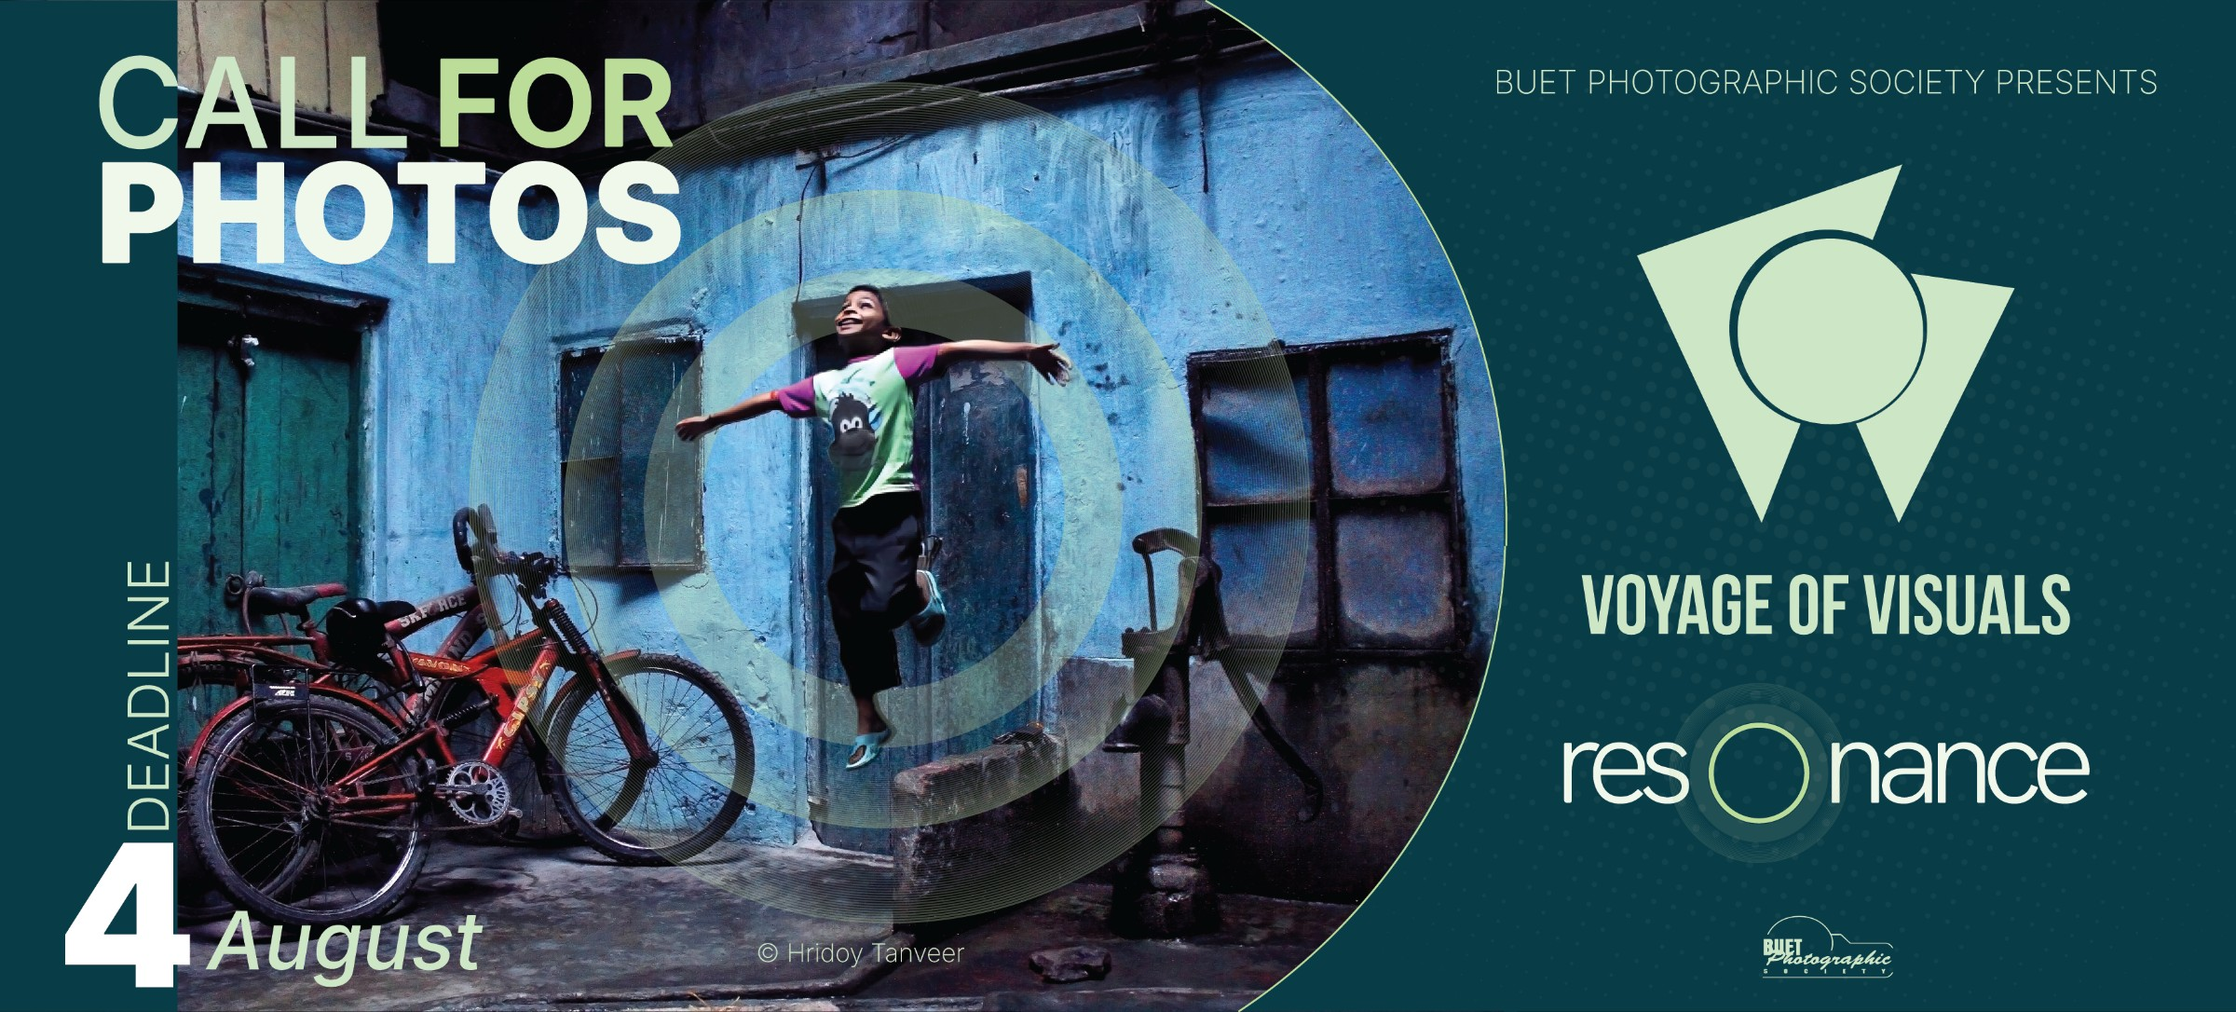
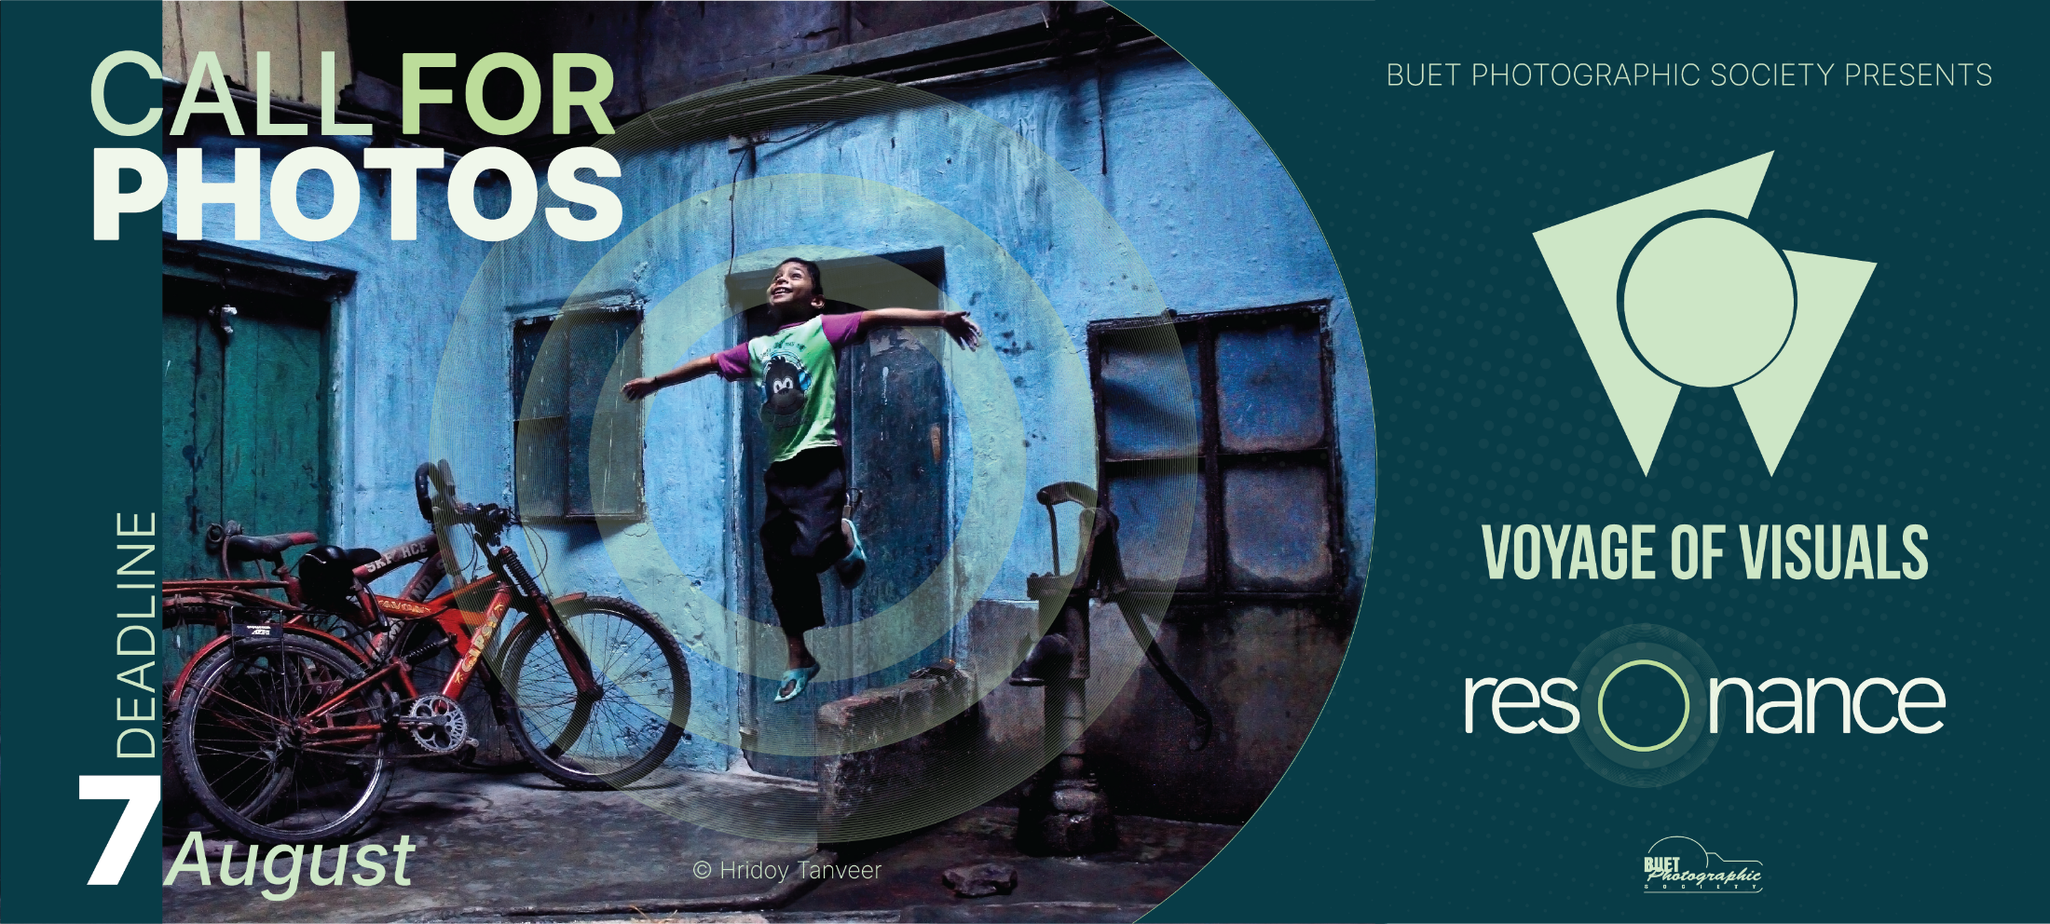
Add files via upload

diff --git a/Home.dc.html b/Home.dc.html
@@ -22,6 +22,7 @@ a{color:#BCDC9A;text-decoration:none}
 a:hover{color:#CDE6C6}
 summary::-webkit-details-marker{display:none}
 summary{list-style:none}
+image-slot::part(image){touch-action:pan-y}
 @keyframes vvHeroUp{from{opacity:0;transform:translateY(34px)}to{opacity:1;transform:none}}
 @keyframes vvRing{0%{transform:scale(.94);opacity:.45}50%{transform:scale(1.05);opacity:.9}100%{transform:scale(.94);opacity:.45}}
 @keyframes vvFloat{0%{transform:translateY(0) rotate(-2.5deg) scale(1)}25%{transform:translateY(-20px) rotate(0deg) scale(1.025)}50%{transform:translateY(-30px) rotate(2.5deg) scale(1.04)}75%{transform:translateY(-14px) rotate(.5deg) scale(1.02)}100%{transform:translateY(0) rotate(-2.5deg) scale(1)}}
@@ -60,7 +61,7 @@ summary{list-style:none}
           <span style="writing-mode:vertical-rl;transform:rotate(180deg);font-size:16px;font-weight:800;letter-spacing:.3em;text-transform:uppercase;color:#003B47">Deadline</span>
         </div>
         <div style="display:flex;align-items:baseline;gap:12px">
-          <span style="font-size:clamp(56px,8vw,96px);font-weight:900;line-height:1;color:#EFF6EA">4</span>
+          <span style="font-size:clamp(56px,8vw,96px);font-weight:900;line-height:1;color:#EFF6EA">7</span>
           <span style="font-size:clamp(28px,4.5vw,48px);font-weight:300;font-style:italic;color:#BCDC9A">August</span>
         </div>
       </div>
@@ -76,10 +77,10 @@ summary{list-style:none}
       </div>
       <div style="font-size:clamp(17px,4.4vw,36px);font-weight:800;letter-spacing:clamp(.08em,.5vw,.18em);text-transform:uppercase;color:#CDE6C6;text-align:center;white-space:nowrap">Voyage of Visuals</div>
       <div style="position:relative;width:min(70vw,420px)">
-        <div style="position:absolute;left:36.7%;top:50%;width:50%;aspect-ratio:1;pointer-events:none;border-radius:50%;background:radial-gradient(circle closest-side, transparent 45%, rgba(239,246,234,.11) 46% 70%, rgba(239,246,234,.055) 71% 89%, rgba(239,246,234,.1) 90% 92%, transparent 93%);animation:vvHaloPulse 5s ease-in-out infinite"></div>
-        <div style="position:absolute;left:36.7%;top:50%;width:50%;aspect-ratio:1;pointer-events:none;border-radius:50%;background:repeating-radial-gradient(circle closest-side, rgba(239,246,234,.09) 0 1px, transparent 1px 6px);-webkit-mask-image:radial-gradient(circle closest-side, transparent 46%, rgba(0,0,0,.9) 48% 88%, transparent 91%);mask-image:radial-gradient(circle closest-side, transparent 46%, rgba(0,0,0,.9) 48% 88%, transparent 91%);animation:vvHaloPulse 5s ease-in-out infinite"></div>
-        <div style="position:absolute;left:36.7%;top:50%;width:50%;aspect-ratio:1;pointer-events:none;border-radius:50%;background:radial-gradient(circle closest-side, transparent 60%, rgba(188,220,154,.28) 62% 88%, transparent 92%);transform:translate(-50%,-50%);animation:vvRipple 5s cubic-bezier(.25,.6,.45,1) infinite"></div>
-        <div style="position:absolute;left:36.7%;top:50%;width:50%;aspect-ratio:1;pointer-events:none;border-radius:50%;background:radial-gradient(circle closest-side, transparent 60%, rgba(188,220,154,.28) 62% 88%, transparent 92%);transform:translate(-50%,-50%);animation:vvRipple 5s cubic-bezier(.25,.6,.45,1) 2.5s infinite"></div>
+        <div style="position:absolute;left:37.3%;top:50%;width:50%;aspect-ratio:1;pointer-events:none;border-radius:50%;background:radial-gradient(circle closest-side, transparent 45%, rgba(239,246,234,.11) 46% 70%, rgba(239,246,234,.055) 71% 89%, rgba(239,246,234,.1) 90% 92%, transparent 93%);animation:vvHaloPulse 5s ease-in-out infinite"></div>
+        <div style="position:absolute;left:37.3%;top:50%;width:50%;aspect-ratio:1;pointer-events:none;border-radius:50%;background:repeating-radial-gradient(circle closest-side, rgba(239,246,234,.09) 0 1px, transparent 1px 6px);-webkit-mask-image:radial-gradient(circle closest-side, transparent 46%, rgba(0,0,0,.9) 48% 88%, transparent 91%);mask-image:radial-gradient(circle closest-side, transparent 46%, rgba(0,0,0,.9) 48% 88%, transparent 91%);animation:vvHaloPulse 5s ease-in-out infinite"></div>
+        <div style="position:absolute;left:37.3%;top:50%;width:50%;aspect-ratio:1;pointer-events:none;border-radius:50%;background:radial-gradient(circle closest-side, transparent 60%, rgba(188,220,154,.28) 62% 88%, transparent 92%);transform:translate(-50%,-50%);animation:vvRipple 5s cubic-bezier(.25,.6,.45,1) infinite"></div>
+        <div style="position:absolute;left:37.3%;top:50%;width:50%;aspect-ratio:1;pointer-events:none;border-radius:50%;background:radial-gradient(circle closest-side, transparent 60%, rgba(188,220,154,.28) 62% 88%, transparent 92%);transform:translate(-50%,-50%);animation:vvRipple 5s cubic-bezier(.25,.6,.45,1) 2.5s infinite"></div>
         <img src="assets/resonance.png" alt="resonance" style="display:block;width:100%;height:auto;position:relative">
       </div>
     </div>
@@ -99,13 +100,51 @@ summary{list-style:none}
         <span style="height:1px;width:60px;background:linear-gradient(270deg,transparent,rgba(188,220,154,.6))"></span>
       </div>
     </div>
-    <div data-reveal="1" style="max-width:800px;margin:40px auto 0;font-size:clamp(16px,2.2vw,18px);line-height:1.9;color:rgba(239,246,234,.87)">
-      <p style="margin:0 0 22px">Every year, Voyage of Visuals brings together photographers from inside and outside BUET to share the images they care about most. This year the exhibition carries a single word with it: resonance. Some photographs do more than show us a moment. They hum quietly in the back of the mind, returning days or years later, asking to be looked at again.</p>
-      <p style="margin:0 0 22px">Resonance is what remains after the shutter closes. It is the echo between a picture and the person looking at it, the feeling that a stranger's frame somehow knows something about your own life. We are looking for photographs that carry that echo. Quiet or loud, staged or stolen from the street, what matters is that the image keeps sounding after the eye has moved on.</p>
-      <p style="margin:0">This is your invitation. Open your archives, walk your city, look again at the people and places you thought you knew. Then send us the frames that refuse to go silent.</p>
+    <div data-reveal="1" style="max-width:840px;margin:44px auto 0">
+      <p style="margin:0;text-align:center;font-size:clamp(20px,3vw,29px);line-height:1.55;font-weight:600;letter-spacing:-.005em;color:#CDE6C6;text-wrap:balance">Resonance is the invisible thread, the subtle yet profound force that binds existence together.</p>
+    </div>
+    <div style="max-width:860px;margin:clamp(46px,6vw,74px) auto 0;display:flex;flex-direction:column">
+      <div data-reveal="0" style="padding:clamp(28px,3.6vw,40px) 0;border-top:1px solid rgba(188,220,154,.16)">
+        <div style="display:flex;align-items:center;gap:16px;margin:0 0 16px">
+          <h3 style="margin:0;font-size:clamp(24px,3.6vw,34px);font-weight:900;letter-spacing:-.01em;color:#EFF6EA;white-space:nowrap">The <span style="color:#BCDC9A">Nature</span></h3>
+          <span style="height:1px;flex:1;background:linear-gradient(90deg,rgba(188,220,154,.4),transparent)"></span>
+        </div>
+        <p style="margin:0;font-size:clamp(16px,2vw,18px);line-height:1.85;color:rgba(239,246,234,.85);text-wrap:pretty">Resonance can be felt in the stillness before rain, as nature holds its breath. It is there in the first drop that sends a shiver through your skin; in the rhythm of tides, the turning of seasons, and the quiet dialogue between all living things.</p>
+      </div>
+      <div data-reveal="0" style="padding:clamp(28px,3.6vw,40px) 0;border-top:1px solid rgba(188,220,154,.16)">
+        <div style="display:flex;align-items:center;gap:16px;margin:0 0 16px">
+          <h3 style="margin:0;font-size:clamp(24px,3.6vw,34px);font-weight:900;letter-spacing:-.01em;color:#EFF6EA;white-space:nowrap">The <span style="color:#BCDC9A">Human</span></h3>
+          <span style="height:1px;flex:1;background:linear-gradient(90deg,rgba(188,220,154,.4),transparent)"></span>
+        </div>
+        <p style="margin:0;font-size:clamp(16px,2vw,18px);line-height:1.85;color:rgba(239,246,234,.85);text-wrap:pretty">Resonance is felt when a stranger's laughter finds its way to your smile, or when another person's tragedy makes your heart heavy and your eyes tear up. It lives in love and longing, grief and remembrance, and the unspoken understanding between strangers. Resonance is found where one life leaves its impact on another.</p>
+      </div>
+      <div data-reveal="0" style="padding:clamp(28px,3.6vw,40px) 0;border-top:1px solid rgba(188,220,154,.16)">
+        <div style="display:flex;align-items:center;gap:16px;margin:0 0 16px">
+          <h3 style="margin:0;font-size:clamp(24px,3.6vw,34px);font-weight:900;letter-spacing:-.01em;color:#EFF6EA;white-space:nowrap">The <span style="color:#BCDC9A">Collective</span></h3>
+          <span style="height:1px;flex:1;background:linear-gradient(90deg,rgba(188,220,154,.4),transparent)"></span>
+        </div>
+        <p style="margin:0;font-size:clamp(16px,2vw,18px);line-height:1.85;color:rgba(239,246,234,.85);text-wrap:pretty">Resonance is the force that turns a whisper into a chant, a lone voice into a chorus, a small act of resistance into a revolution, and a shared belief into a movement. It transforms a simple act of kindness into a wave that travels far beyond its origin. It echoes through communities, traditions, celebrations, protests, and moments of shared hope, reminding us that the greatest changes often begin with the smallest gestures.</p>
+      </div>
+      <div data-reveal="0" style="padding:clamp(28px,3.6vw,40px) 0;border-top:1px solid rgba(188,220,154,.16)">
+        <div style="display:flex;align-items:center;gap:16px;margin:0 0 16px">
+          <h3 style="margin:0;font-size:clamp(24px,3.6vw,34px);font-weight:900;letter-spacing:-.01em;color:#EFF6EA;white-space:nowrap">The <span style="color:#BCDC9A">Journey</span></h3>
+          <span style="height:1px;flex:1;background:linear-gradient(90deg,rgba(188,220,154,.4),transparent)"></span>
+        </div>
+        <p style="margin:0;font-size:clamp(16px,2vw,18px);line-height:1.85;color:rgba(239,246,234,.85);text-wrap:pretty">Resonance lives in forgotten streets, inherited traditions, weathered photographs, and familiar faces. It reminds us that every journey, across landscapes, cultures, or through time itself, changes not only where we arrive, but also who we become.</p>
+      </div>
+      <div data-reveal="0" style="padding:clamp(28px,3.6vw,40px) 0;border-top:1px solid rgba(188,220,154,.16);border-bottom:1px solid rgba(188,220,154,.16)">
+        <div style="display:flex;align-items:center;gap:16px;margin:0 0 16px">
+          <h3 style="margin:0;font-size:clamp(24px,3.6vw,34px);font-weight:900;letter-spacing:-.01em;color:#EFF6EA;white-space:nowrap">The <span style="color:#BCDC9A">Vision</span></h3>
+          <span style="height:1px;flex:1;background:linear-gradient(90deg,rgba(188,220,154,.4),transparent)"></span>
+        </div>
+        <p style="margin:0;font-size:clamp(16px,2vw,18px);line-height:1.85;color:rgba(239,246,234,.85);text-wrap:pretty">Resonance is not only found in what we photograph, but in how we choose to see. It emerges through light and shadow, composition and timing, perspective and intention. Every frame is an interpretation. Every photograph is a quiet invitation to see the world as we do, and to resonate with it.</p>
+      </div>
+    </div>
+    <div data-reveal="1" style="max-width:820px;margin:clamp(40px,5vw,60px) auto 0;padding:clamp(28px,3.6vw,42px);border-radius:22px;background:rgba(188,220,154,.07);border:1px solid rgba(188,220,154,.22)">
+      <p style="margin:0;text-align:center;font-size:clamp(16px,2.1vw,18.5px);line-height:1.85;color:rgba(239,246,234,.9);text-wrap:pretty">We believe resonance goes far beyond sound. For this exhibition, we invite you to explore what this concept means to you, whether through a single defining image or a complete photo story. Let these themes be your starting point, not your boundary. We are looking for photographs that don't just document resonance, but actively create it.</p>
     </div>
     <div data-reveal="2" style="margin:60px auto 0;border-radius:22px;overflow:hidden;box-shadow:0 28px 70px rgba(0,0,0,.45);border:1px solid rgba(188,220,154,.16)">
-      <img src="assets/poster.jpg" alt="Call for Photos: Voyage of Visuals, Resonance. Deadline 4 August" loading="lazy" decoding="async" style="display:block;width:100%;height:auto;aspect-ratio:2400/1086">
+      <img src="assets/poster.jpg" alt="Call for Photos: Voyage of Visuals, Resonance. Deadline 7 August" loading="lazy" decoding="async" style="display:block;width:100%;height:auto;aspect-ratio:3536/1595">
     </div>
 
     <div id="submit" data-reveal="0" style="margin:clamp(80px,10vw,120px) 0 46px;text-align:center;scroll-margin-top:110px">
@@ -113,7 +152,7 @@ summary{list-style:none}
       <h3 style="margin:0;font-size:clamp(42px,7vw,76px);font-weight:900;letter-spacing:-.015em;line-height:1.02;color:#EFF6EA">How to <span style="color:#BCDC9A">submit</span></h3>
       <div style="display:inline-flex;align-items:center;gap:11px;margin-top:24px;padding:13px 28px;border-radius:999px;background:rgba(188,220,154,.1);border:1px solid rgba(188,220,154,.3)">
         <span style="width:9px;height:9px;border-radius:50%;background:#CDE6C6;box-shadow:0 0 12px #CDE6C6"></span>
-        <span style="font-size:16.5px;font-weight:600;color:#EFF6EA">Deadline <strong style="color:#BCDC9A">4 August, 11:59 pm</strong></span>
+        <span style="font-size:16.5px;font-weight:600;color:#EFF6EA">Deadline <strong style="color:#BCDC9A">7 August, 11:59 pm</strong></span>
       </div>
     </div>
     <div style="display:grid;grid-template-columns:repeat(auto-fit,minmax(min(100%,380px),1fr));gap:28px">
@@ -162,7 +201,7 @@ summary{list-style:none}
       </div>
       <div data-reveal="1" style="background:rgba(239,246,234,.035);border:1px solid rgba(188,220,154,.14);border-radius:18px;padding:30px">
         <h4 style="margin:0 0 12px;font-size:15px;letter-spacing:.24em;text-transform:uppercase;color:#BCDC9A;font-weight:800">Submission period</h4>
-        <p style="margin:0;font-size:16px;line-height:1.75;color:rgba(239,246,234,.85)">Submissions are open now and close at 11:59 pm on 4 August. Late entries will not be accepted.</p>
+        <p style="margin:0;font-size:16px;line-height:1.75;color:rgba(239,246,234,.85)">Submissions are open now and close at 11:59 pm on 7 August. Late entries will not be accepted.</p>
       </div>
       <div data-reveal="2" style="background:rgba(239,246,234,.035);border:1px solid rgba(188,220,154,.14);border-radius:18px;padding:30px">
         <h4 style="margin:0 0 12px;font-size:15px;letter-spacing:.24em;text-transform:uppercase;color:#BCDC9A;font-weight:800">Judging &amp; results</h4>
@@ -286,7 +325,7 @@ summary{list-style:none}
   </div>
 </footer>
 </x-dc>
-<script type="text/x-dc" data-dc-script data-props="{&quot;singleFormUrl&quot;:{&quot;editor&quot;:&quot;text&quot;,&quot;default&quot;:&quot;https://forms.gle/&quot;,&quot;tsType&quot;:&quot;string&quot;,&quot;section&quot;:&quot;Links&quot;},&quot;seriesFormUrl&quot;:{&quot;editor&quot;:&quot;text&quot;,&quot;default&quot;:&quot;https://forms.gle/&quot;,&quot;tsType&quot;:&quot;string&quot;,&quot;section&quot;:&quot;Links&quot;},&quot;facebookEventUrl&quot;:{&quot;editor&quot;:&quot;text&quot;,&quot;default&quot;:&quot;https://www.facebook.com/buetps&quot;,&quot;tsType&quot;:&quot;string&quot;,&quot;section&quot;:&quot;Links&quot;}}">
+<script type="text/x-dc" data-dc-script data-props="{&quot;singleFormUrl&quot;:{&quot;editor&quot;:&quot;text&quot;,&quot;default&quot;:&quot;https://forms.gle/3v5xZRJCyd3xYyzv7&quot;,&quot;tsType&quot;:&quot;string&quot;,&quot;section&quot;:&quot;Links&quot;},&quot;seriesFormUrl&quot;:{&quot;editor&quot;:&quot;text&quot;,&quot;default&quot;:&quot;https://forms.gle/tibtwrYpQ72qmiTo7&quot;,&quot;tsType&quot;:&quot;string&quot;,&quot;section&quot;:&quot;Links&quot;},&quot;facebookEventUrl&quot;:{&quot;editor&quot;:&quot;text&quot;,&quot;default&quot;:&quot;https://www.facebook.com/buetps&quot;,&quot;tsType&quot;:&quot;string&quot;,&quot;section&quot;:&quot;Links&quot;}}">
 class Component extends DCLogic {
   snipMove(d) {
     this.snipIdx = ((this.snipIdx || 0) + d + 9) % 9;
@@ -299,8 +338,8 @@ class Component extends DCLogic {
     return {
       snipPrev: () => this.snipMove(-1),
       snipNext: () => this.snipMove(1),
-      singleFormUrl: this.props.singleFormUrl ?? 'https://forms.gle/',
-      seriesFormUrl: this.props.seriesFormUrl ?? 'https://forms.gle/',
+      singleFormUrl: this.props.singleFormUrl ?? 'https://forms.gle/3v5xZRJCyd3xYyzv7',
+      seriesFormUrl: this.props.seriesFormUrl ?? 'https://forms.gle/tibtwrYpQ72qmiTo7',
       facebookEventUrl: this.props.facebookEventUrl ?? 'https://www.facebook.com/buetps'
     };
   }

diff --git a/Events.dc.html b/Events.dc.html
@@ -20,6 +20,7 @@ html{scroll-behavior:smooth}
 body{margin:0;background:#003B47;color:#EFF6EA;font-family:'Inter',sans-serif;-webkit-font-smoothing:antialiased}
 a{color:#BCDC9A;text-decoration:none}
 a:hover{color:#CDE6C6}
+image-slot::part(image){touch-action:pan-y}
 @keyframes vvHeroUp{from{opacity:0;transform:translateY(34px)}to{opacity:1;transform:none}}
 @keyframes vvRing{0%{transform:scale(.94);opacity:.45}50%{transform:scale(1.05);opacity:.9}100%{transform:scale(.94);opacity:.45}}
 </style>
@@ -61,13 +62,13 @@ a:hover{color:#CDE6C6}
     </div>
     <div data-reveal="1" style="border-radius:22px;overflow:hidden;border:1px solid rgba(188,220,154,.22);background:#01323d;box-shadow:0 26px 64px rgba(0,0,0,.4)">
       <a href="Home.dc.html" style="display:block;overflow:hidden">
-        <img src="assets/poster.jpg" alt="Voyage of Visuals: Resonance, Call for Photos, deadline 4 August" decoding="async" style="display:block;width:100%;height:auto;aspect-ratio:2400/1086;transition:transform .6s cubic-bezier(.22,1,.36,1)" style-hover="transform:scale(1.025)">
+        <img src="assets/poster.jpg" alt="Voyage of Visuals: Resonance, Call for Photos, deadline 7 August" decoding="async" style="display:block;width:100%;height:auto;aspect-ratio:3536/1595;transition:transform .6s cubic-bezier(.22,1,.36,1)" style-hover="transform:scale(1.025)">
       </a>
       <div style="padding:clamp(24px,4vw,40px);display:flex;flex-wrap:wrap;gap:24px;align-items:center;justify-content:space-between">
         <div>
           <span style="display:inline-block;padding:7px 16px;border-radius:999px;background:rgba(188,220,154,.16);border:1px solid rgba(188,220,154,.4);color:#BCDC9A;font-size:12.5px;font-weight:800;letter-spacing:.18em;text-transform:uppercase">Happening now</span>
           <h3 style="margin:14px 0 6px;font-size:clamp(24px,3.6vw,34px);font-weight:800;color:#EFF6EA">Voyage of Visuals: Resonance</h3>
-          <p style="margin:0;font-size:15.5px;color:rgba(239,246,234,.75)">Flagship International Exhibition · Submissions close 4 August</p>
+          <p style="margin:0;font-size:15.5px;color:rgba(239,246,234,.75)">Flagship International Exhibition · Submissions close 7 August</p>
         </div>
         <div style="display:flex;gap:12px;flex-wrap:wrap">
           <a href="Home.dc.html" style="display:inline-block;padding:14px 30px;border-radius:999px;background:#BCDC9A;color:#003B47;font-weight:800;font-size:15px;transition:background .3s,transform .3s" style-hover="background:#CDE6C6;transform:translateY(-2px);color:#003B47">Call for Photos</a>

diff --git a/About.dc.html b/About.dc.html
@@ -20,6 +20,7 @@ html{scroll-behavior:smooth}
 body{margin:0;background:#003B47;color:#EFF6EA;font-family:'Inter',sans-serif;-webkit-font-smoothing:antialiased}
 a{color:#BCDC9A;text-decoration:none}
 a:hover{color:#CDE6C6}
+image-slot::part(image){touch-action:pan-y}
 @keyframes vvHeroUp{from{opacity:0;transform:translateY(34px)}to{opacity:1;transform:none}}
 @keyframes vvRing{0%{transform:scale(.94);opacity:.45}50%{transform:scale(1.05);opacity:.9}100%{transform:scale(.94);opacity:.45}}
 </style>
@@ -43,8 +44,8 @@ a:hover{color:#CDE6C6}
 </nav>
 
 <header style="position:relative;padding:clamp(120px,15vw,170px) clamp(16px,4vw,36px) clamp(230px,30vw,380px);overflow:hidden;background:#003B47">
-  <img src="assets/gallery/about-01.jpg" alt="BUETPS members on a photowalk" style="position:absolute;inset:0;width:100%;height:100%;object-fit:cover;object-position:center 88%">
-  <div style="position:absolute;inset:0;background:linear-gradient(180deg,rgba(0,52,63,.82) 0%,rgba(0,52,63,.5) 30%,rgba(0,59,71,.08) 55%,rgba(0,59,71,.2) 88%,#003B47 100%)"></div>
+  <img src="assets/gallery/about-01.jpg" alt="BUET Photographic Society members group photo" style="position:absolute;inset:0;width:100%;height:100%;object-fit:cover;object-position:center 52%">
+  <div style="position:absolute;inset:0;background:linear-gradient(180deg,rgba(0,52,63,.8) 0%,rgba(0,52,63,.46) 26%,rgba(0,59,71,.06) 52%,rgba(0,59,71,.22) 86%,#003B47 100%)"></div>
   <div style="position:absolute;inset:0;background-image:radial-gradient(rgba(188,220,154,.14) 1.8px, transparent 1.8px);background-size:26px 26px;-webkit-mask-image:linear-gradient(115deg,transparent 62%,rgba(0,0,0,.7) 90%);mask-image:linear-gradient(115deg,transparent 62%,rgba(0,0,0,.7) 90%);pointer-events:none"></div>
   <div style="position:relative;max-width:1140px;margin:0 auto">
     <p style="margin:0 0 14px;font-size:14px;letter-spacing:.32em;text-transform:uppercase;color:#BCDC9A;font-weight:700;text-shadow:0 2px 12px rgba(0,0,0,.5);animation:vvHeroUp .9s cubic-bezier(.22,1,.36,1) both">Since 1997</p>
